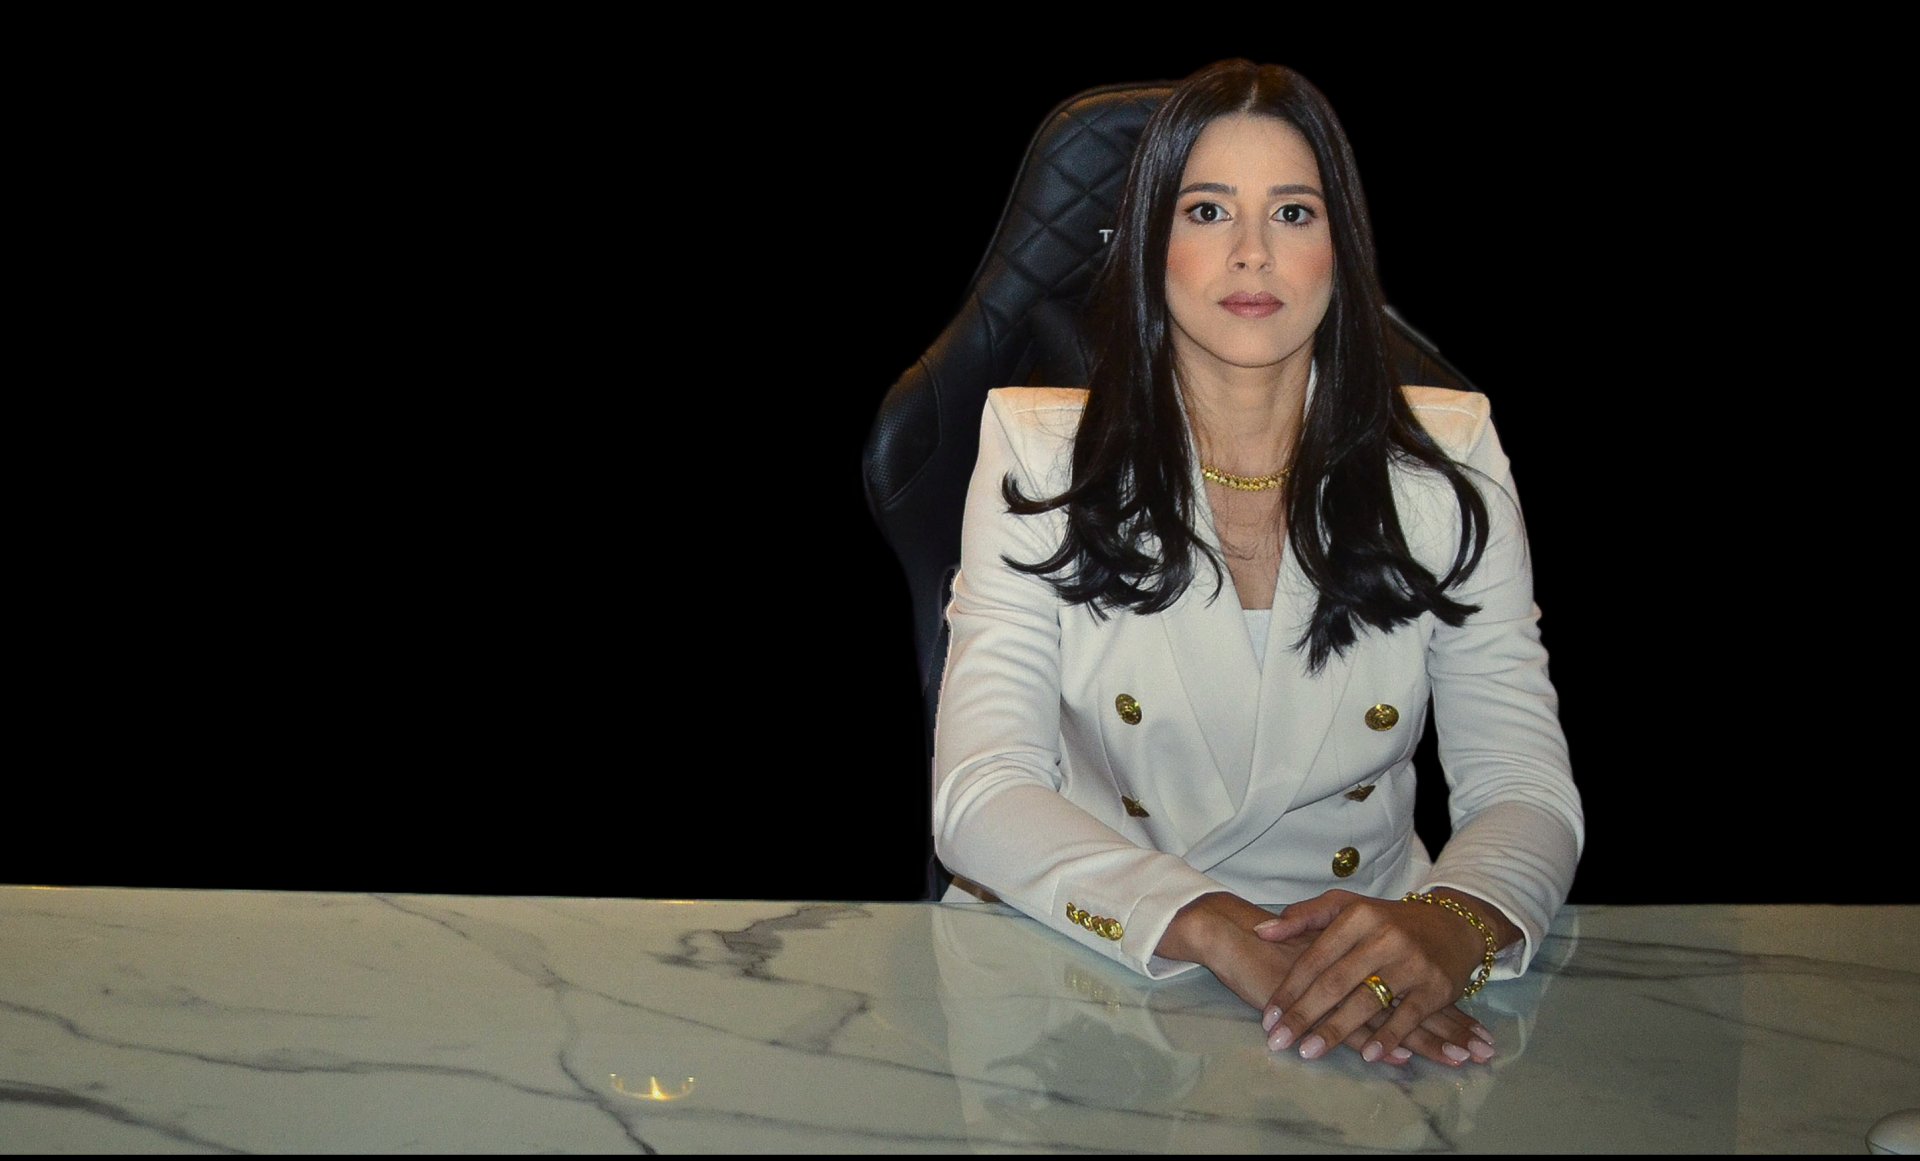
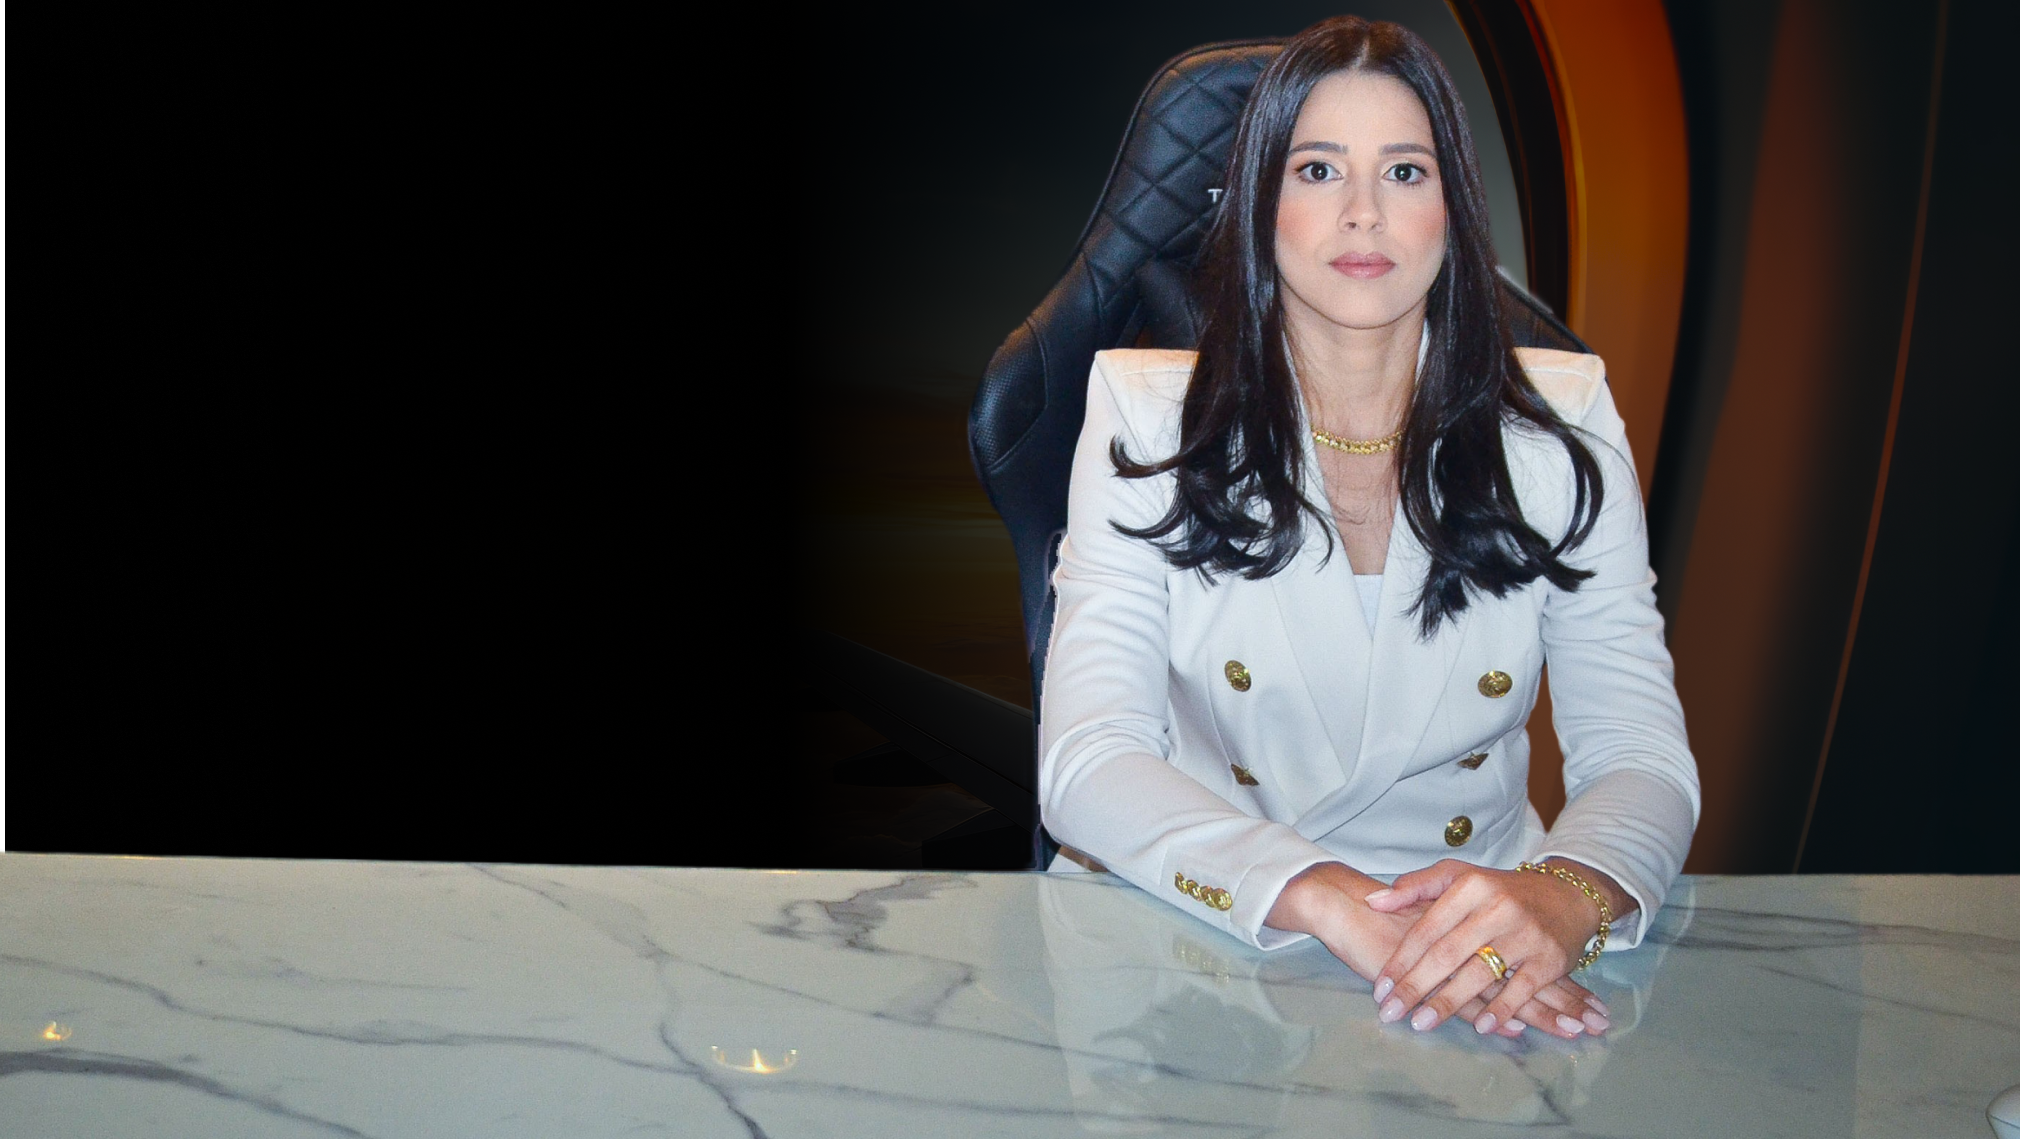
ajuste img web

diff --git a/style.css b/style.css
@@ -64,7 +64,6 @@ body {
 }
 
 .principal-web {
-  background: var(--DOURADO-1, linear-gradient(180deg, #B7854D 3.17%, #F5D98F 18.38%, #FDF6B7 33.59%, #F5D88E 55.9%, #FCF5B7 68.07%, #D4B067 79.22%, #BD9149 89.36%, #B7854D 104.57%));
   margin: 0;
 }
 

diff --git a/index.html b/index.html
@@ -24,7 +24,7 @@
 
     <div class="principal-web">
 
-      <img src="img-principal-web.png" alt="" width="100%">
+      <img src="img-principal.png" alt="" width="100%">
     </div>
 
     <div class="box-teste">
